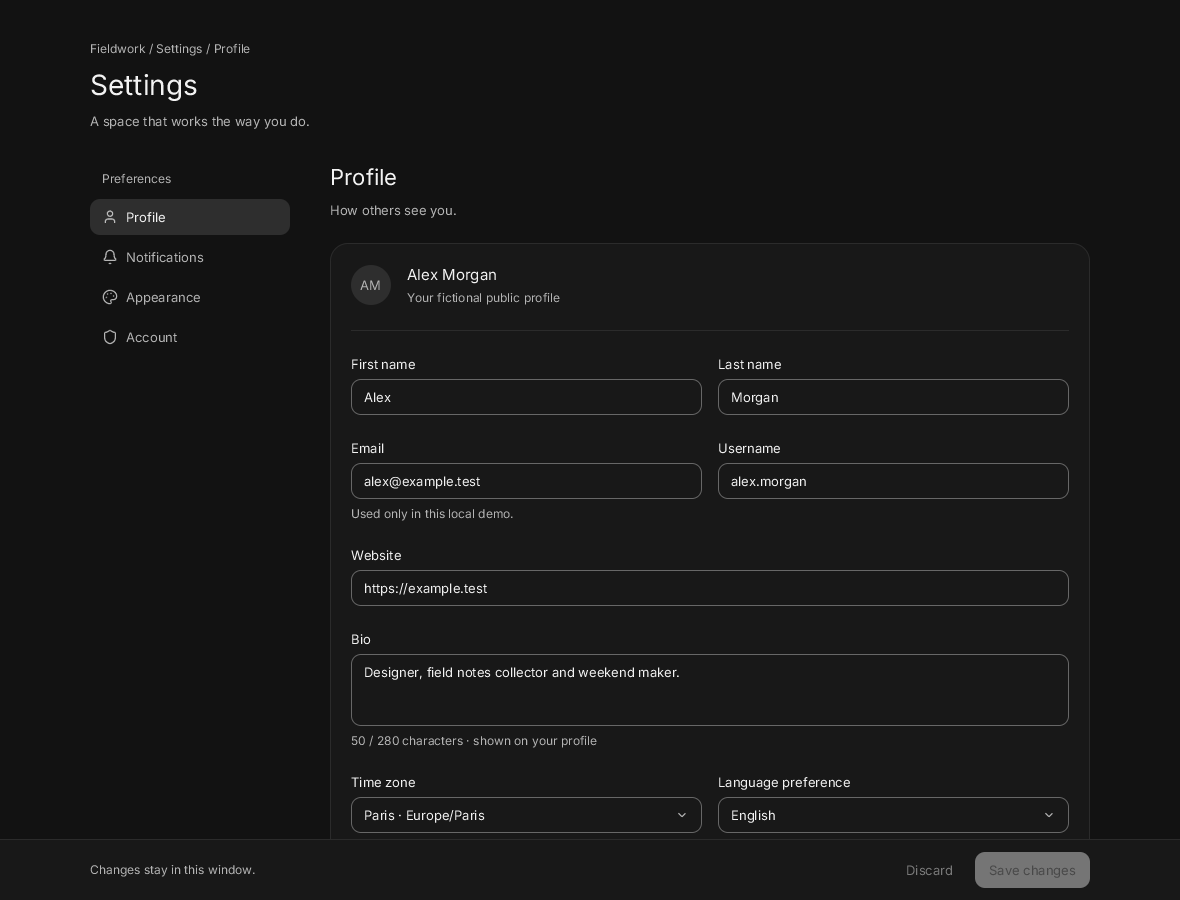
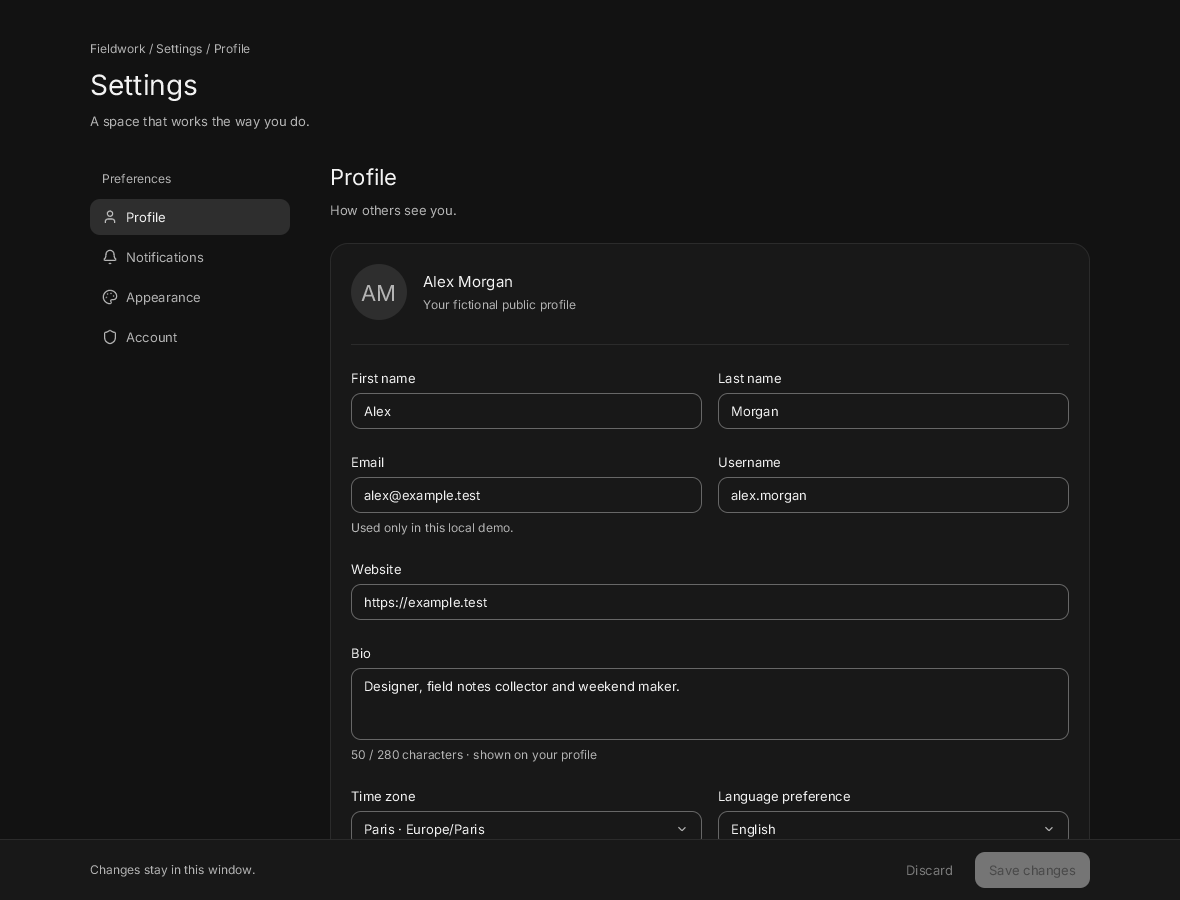
docs(settings): complete three-engine proof and refresh captures

diff --git a/backlog/tasks/zn-1078.23 - Demo-Settings-a-settings-app-with-forms-switches-sections.md b/backlog/tasks/zn-1078.23 - Demo-Settings-a-settings-app-with-forms-switches-sections.md
@@ -1,11 +1,11 @@
 ---
 id: ZN-1078.23
 title: 'Demo Settings: a settings app with forms, switches, sections'
-status: Backlog
+status: Done
 assignee:
   - '@parallel'
 created_date: '2026-11-09 09:22'
-updated_date: '2026-11-10 02:25'
+updated_date: '2026-11-10 02:53'
 labels:
   - ui
   - demo
@@ -30,31 +30,34 @@ Reference (github.com/yappologistic/CUI, MIT, C99, ~170 components, docs/design.
 
 ## Acceptance Criteria
 <!-- AC:BEGIN -->
-- [ ] #1 the demo runs on the interpreter, AOT and QuickJS (short runs, shots light and dark)
+- [x] #1 the demo runs on the interpreter, AOT and QuickJS (short runs, shots light and dark)
 - [x] #2 README with a picture and Proposed tests
 <!-- AC:END -->
 
 ## Implementation Notes
 
 <!-- SECTION:NOTES:BEGIN -->
-Checkpoint 2026-11-10 — implementation complete; AC1 deliberately stays open for shared-component/engine defects found in the real captures.
+Completed 2026-11-10 after the shared ZN-1111 numeric-union typeof and ZN-1112 Tabs reveal fixes. AC 1 and AC 2 pass. Original app sources, zinc.json and README are unchanged from checkpoint e5ffa9f27; this completion refreshes captures and records proof only.
 
-Implemented examples/ui/settings in original Zinc TSX: four Quiet pages (Profile, Notifications, Appearance, Account), existing kit Sidebar/Tabs/Input/Textarea/Select/Avatar/Checkbox/RadioGroup/Switch/SegmentedControl/Button/Separator. One window owns immutable draft and saved Preferences snapshots. Save validates all profile fields; Enter in a profile input saves. Discard restores all saved values and live theme/accent/reduced-motion previews. Dirty is derived from the snapshots. No backend, filesystem, auth, permission requests, new provider, dependency or widget framework. Account session termination/restoration is explicitly a local fictional-list simulation, separate from the preferences snapshot. Language/time zone are stored preferences, with no claim of localization.
+Implementation: four Quiet pages (Profile, Notifications, Appearance, Account), composed from existing kit Sidebar/Tabs/Input/Textarea/Select/Avatar/Checkbox/RadioGroup/Switch/SegmentedControl/Button/Separator. One window owns draft and saved Preferences snapshots. Save validates profile fields; Enter in a profile input saves. Discard restores all saved preferences and live theme/accent/reduced-motion previews. Dirty is derived from the snapshots. Account session termination/restoration changes only its fictional local list, independently of preferences. Language/time zone are stored preferences; no localization, backend, filesystem, auth, permission request, provider, framework or dependency was added.
 
-Research: read pinned primary CUI settings.c (MIT), https://github.com/yappologistic/CUI/blob/f70a1d3d095cafd67814b23bdd82c2dfba28efe0/examples/settings.c (also coordinator .logs/reference-settings-20261110/settings.c), and opened it on the web. Useful: sidebar/four sections, responsive tabs, field grouping and Save/Discard footer. Original code/data; reference dirty-only Discard not copied. Need → provider: settings widgets → zinc:ui/kit; validation HTTPS parsing → zinc:web URL.parse; theme/accent → kit theme service; reduced motion → zinc:ui shared signal; remaining gaps below, no workaround.
+Research retained from implementation: pinned primary CUI settings.c (MIT), https://github.com/yappologistic/CUI/blob/f70a1d3d095cafd67814b23bdd82c2dfba28efe0/examples/settings.c; coordinator reference /Users/mowmow/Lab/zinc/.logs/reference-settings-20261110/settings.c, SHA256 168c4082fcebb25b67f06bc7cd5fbb5a817aa327fb65f0b3044b8e754c2d8d61. Useful: sidebar/four sections, responsive tabs, grouped fields and Save/Discard footer. Zinc code/data are original; snapshot restoration replaces the reference's dirty-only discard. Need → provider: settings widgets → zinc:ui/kit; HTTPS parsing → zinc:web URL.parse; appearance → kit theme service and zinc:ui shared reduced-motion signal. No product workaround for the shared defects.
 
-Proof with coordinator read-only engine SHA256 3978659916223a6a6dccb3c5e474423e9fcc2f8d9455a92abc831b8d073ed5af, ZINC_ROOT=this worktree. Every heavy run bounded through /Users/mowmow/Lab/zinc/tools/work-run. Final zinc check passes (7 local files). Original app exits0 at3frames in interpreter/AOT/QuickJS, light and dark: seven inspected committed PNGs (six all3 scheme shots and narrow-profile360x780). A scratch app imports the actual App and drives rendered controls over25frames: text editing, Enter save, rejection of invalid username/email/website, Discard restoring saved first name, notification checkbox/radio/switch, retained cross-page values, theme/accent/reduced-motion preview/discard, local session callbacks, Tab and sidebar arrows. It prints “settings real UI interactions: ok” and exits0 on all3 engines. Narrow28frame run also passed navigation/controls; the extended48frame tab-reveal assertion exposes the shared gap below. No demo test/golden/session was added. No engine build, suite, T1/T2, pixel comparison, benchmark, conformance, fuzz or CI was run.
+Final proof: read-only coordinator engine /Users/mowmow/Lab/zinc/.claude/worktrees/agent-aae96db4e67d4b8e6/build/zinc, rebuilt through source fe4b8bee5, SHA256 47a238519a706c385c312611ea9c17487944861e4bd660c012fe6ef643881764. ZINC_ROOT=/Users/mowmow/Lab/zinc/.worktrees/1078.23 (base develop 45ef64790). All heavy commands bounded through /Users/mowmow/Lab/zinc/tools/work-run, sequential/headless; no engine build.
 
-Blockers / handover:
-1. Numeric union typeof semantics: natural interface Example { size?: string | number }, report({size:56}), and <Avatar name="Demo User" size={56}>. Interp/AOT getter cast number and Number(cast) both56, but typeof p.size is “object”, number-branch fallback40, actual Avatar box40x40. QuickJS typeof “number”, branch56, box56x56. Source/logs durable at /Users/mowmow/Lab/zinc/.logs/settings-1078.23-20261110/avatar-repro and avatar-{interp,native,quickjs}.log. No product cast or size override. Coordinator notified for engine blocker. Direct console.log/JSON.stringify/Number of this union are separately unsupported in the current compiler; the cast is only in the diagnostic probe.
-2. Tabs reveal: minimal public kit program in durable tabs-repro, same sibling logs. Width360, p4, Tabs w-full, labels Profile/Notifications/Appearance/Account; End from Profile atframe2. After48frames selected3 and scrollLeft0 on all3. Track[16,16,328,36] has right344; Account interp/AOT[328,19,88,30] right416, QJS[284,19,76,30] right360. Page selection works but selected tab/focus stays clipped. No app workaround; coordinator notified.
+- zinc check examples/ui/settings passes: 7 local files, no errors.
+- Original unchanged app exits0 at 3 frames in interpreter/AOT/QuickJS, light and dark. All seven pictures refreshed and visually inspected: six engine/scheme shots plus narrow-profile360x780. QuickJS light/dark are byte-identical to the checkpoint; interpreter/AOT and narrow profile now show the correct 56 px Avatar.
+- Actual-App scratch replay exits0 and prints “settings real UI interactions: ok” on all three engines at 25 frames: text editing, Enter save, invalid username/email/website rejection, saved-name restoration, checkbox/radio/switch, cross-page notification retention, theme/accent/reduced-motion preview/discard, local session callbacks, Tab and sidebar arrows.
+- Same actual-App replay at 360x780 exits0 and prints “settings narrow real UI interactions: ok” on all three engines at 49 frames. Explicit assertions prove the untouched Avatar is 56x56, keyboard End selects/focuses Account, and its tab keeps at least 2 px clearance inside the track. All three engines settle at Account [265,133,76,30], track [16,130,328,36], scrollLeft 19. All three engines final captures visually confirm full Account label/focus ring. No timer, product cast, width override or app workaround.
 
-Next: correct the shared defects through the coordinator, rerun original all3 light/dark and scratch interaction/narrow proof, inspect refreshed pictures, then check AC1 and close. Source/checkpoint is ready for that retry. AC2 passes now (README, real image, source map and Proposed tests). No new task or decision number created by this worker. No proposed decision record; choices are routine reuse. No performance claim or measured-number entry. usage: n/a.
+Durable completion evidence: /Users/mowmow/Lab/zinc/.logs/settings-1078.23-20261110/completed/ (source fixtures, runners, all logs, 7 product pictures, 3 narrow Account focus pictures, provenance.json with engine/source/log/capture SHA256 values). Scratch imports point into this worktree to preserve physical type identities. Prior blocker reproductions/history remain in the parent evidence directory; they are resolved by ZN-1111/1112.
+
+No new demo test/session/golden committed; no suite, T1/T2, pixel comparison, benchmark, conformance, fuzz or CI run. No protected provider files changed, no shared record written, no process left running. Settings contains no Dialog/Sheet/openLayer use; the separately recorded ZN-1114 shared-layer reduced-motion blocker was not exercised or altered. No performance claim or decision record proposed. usage: n/a.
+
+Proposed later.md line: ZN-1078.23: physical keyboard/touch/VoiceOver, cross-target and long edit/restart/idle-memory proof; completed proof is bounded headless only.
 
 Proposed tests (owner picks):
-- ZINC_HEADLESS=1 ZINC_FRAMES=25 zinc run .logs/settings-1078.23-20261110/app --interp / --native / --engine quickjs: actual validation/save/discard, cross-page preferences and callbacks; roughly10s plus cold native build, expected <500MB.
-- ZINC_SIZE=360x780 plus keyboard/touch/VoiceOver session, resizing1180→760→360→1180: focus, tabs reveal, fields/menus/footer/scroll and light/dark/reduced motion; roughly60s, expected <500MB.
-- Bounded30s navigation/edit/idle session: paint counts, retained state and memory growth; expected <500MB. Not measured here.
-
-Proposed later.md line: ZN-1078.23: physical keyboard/touch/VoiceOver, idle/memory and long edit/restart proof after the shared typeof and tab-reveal fixes; current proof is bounded headless only. No process remains running from this worker.
+- Actual-App controls replay on all three engines: validation/save/discard, retained notification values, appearance previews, local callbacks; roughly 10 s plus cold native build, expected <500MB.
+- Physical keyboard/touch/VoiceOver session and resizing 1180→760→360→1180: focus/tab reveal, fields/menus/footer/scroll, light/dark/reduced motion; roughly 60 s, expected <500MB.
+- Bounded 30 s navigation/edit/idle session: paint counts, retained state and memory growth; expected <500MB. Not measured here.
 <!-- SECTION:NOTES:END -->
